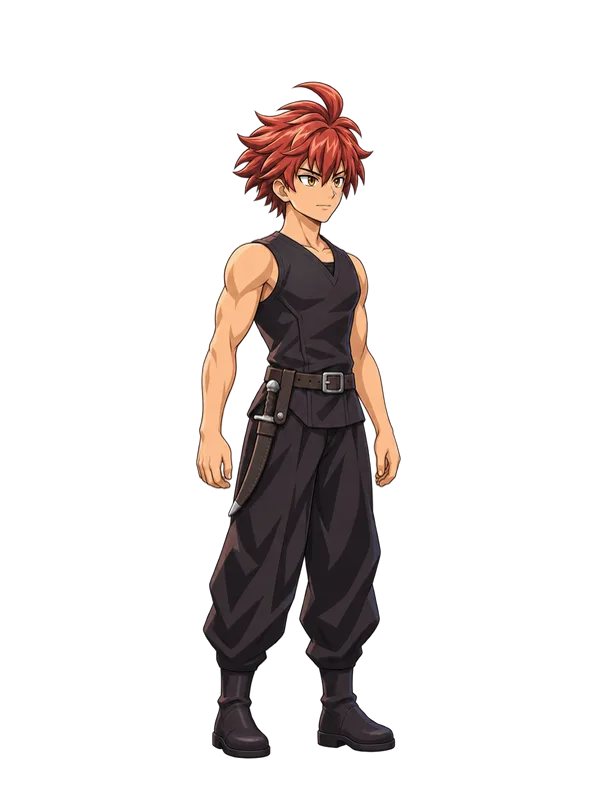
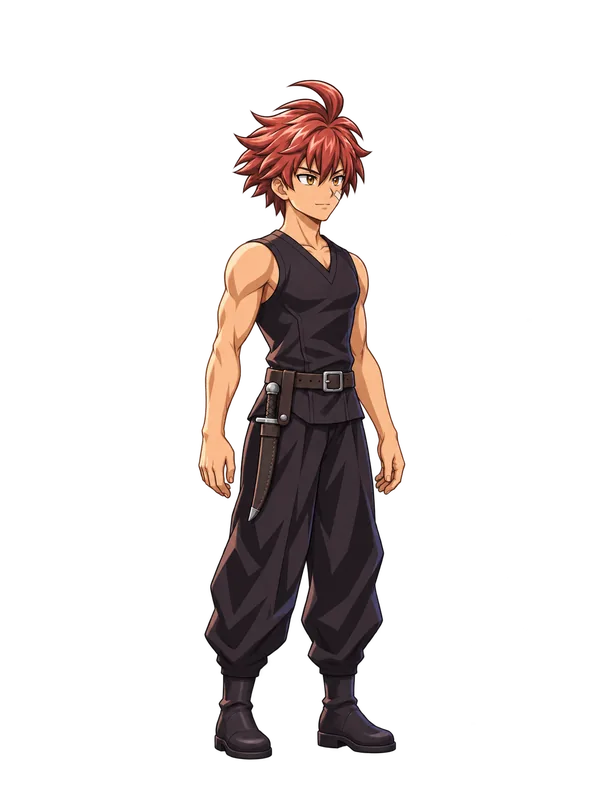
戰利品一鍵換上、特級治療藥水、八職業站姿重畫上線（v10.0）

diff --git a/index.html b/index.html
@@ -78,6 +78,7 @@ h3{font-family:var(--display);font-size:16px;color:var(--navy)}
 .tag{display:inline-block;font-size:11px;padding:0 6px;border-radius:8px;background:var(--navy);color:var(--gold);white-space:nowrap}
 .tag.red{background:var(--hp);color:#fff}.tag.ok{background:var(--exp);color:#fff}.tag.off{background:#b9b2a2;color:#fff}
 .chips{display:flex;flex-wrap:wrap;gap:5px}.chip{font-size:11px;padding:1px 7px;border-radius:9px;background:var(--panel2);border:1px solid var(--line)}
+.dup{display:block;font-size:11px;font-weight:700;color:#1f8a4c}.drop .deq{flex:none;position:relative;z-index:2}.drop .deq.done{background:#cfc6b4;color:#5a5245;border-color:#cfc6b4}
 .drops{display:flex;flex-direction:column;gap:6px;margin:6px 0 8px}.drop{display:flex;align-items:center;gap:8px;padding:8px 10px;border-radius:10px;border:1px solid currentColor;background:rgba(255,255,255,.75);position:relative;overflow:hidden;animation:dropIn .5s cubic-bezier(.2,1.6,.4,1) both}.drop.d3{color:var(--r3);box-shadow:0 0 12px rgba(180,110,255,.45)}.drop.d4{color:var(--r4);box-shadow:0 0 16px rgba(255,200,60,.6)}.drop.shn{color:#1593b3;box-shadow:0 0 14px rgba(60,200,240,.6)}.drop.shn b{color:#1593b3}.drop .grow{display:flex;flex-direction:column}.drop .sub{color:var(--sub);font-size:.85em}.drop::after{content:'';position:absolute;inset:0;background:linear-gradient(110deg,transparent 30%,rgba(255,255,255,.55) 50%,transparent 70%);transform:translateX(-120%);animation:dropShine 1.6s .4s ease-out 2}@keyframes dropIn{from{transform:scale(.6);opacity:0}to{transform:none;opacity:1}}@keyframes dropShine{to{transform:translateX(120%)}}
 .c0{color:var(--r0)}.c1{color:var(--r1)}.c2{color:var(--r2)}.c3{color:var(--r3)}.c4{color:var(--r4)}
 .ico{flex:none;width:38px;height:38px;border-radius:8px;border:2px solid currentColor;background:#fff;font-family:var(--display);font-size:17px;display:grid;place-items:center}
@@ -601,6 +602,7 @@ const DIS=[[1,0],[3,0],[8,0],[20,1],[50,2]];
 const ITEMS={
   pot:{n:'治療藥水',d:'回復 80 HP',price:20,use:{hp:80}},
   pot2:{n:'高級治療藥水',d:'回復 300 HP',price:90,use:{hp:300}},
+  pot3:{n:'特級治療藥水',d:'回復 800 HP',price:240,use:{hp:800}},
   eth:{n:'魔力藥水',d:'回復 40 MP',price:30,use:{mp:40}},
   eth2:{n:'高級魔力藥水',d:'回復 150 MP',price:120,use:{mp:150}},
   stone:{n:'強化石',d:'鐵匠強化裝備的材料',price:120,mat:1},
@@ -1500,7 +1502,9 @@ function makeGear(tier,r,hard){const sl=pick(Object.keys(SLOTS)),alt=Math.random
 /* 閃耀裝備：多一條詞條、最高詞條 ×1.5 */
 let DROPS=[];
 function shine(g){g.sh=1;const ks=g.sub.map(x=>x.k),off=OFFK(),k=Object.keys(SUBS).filter(x=>!ks.includes(x)&&!off.includes(x)).sort(()=>Math.random()-.5)[0],t=GEAR[g.id].t;if(k)g.sub.push({k,v:Math.max(1,Math.round(SUBS[k](t)))});const top=g.sub.reduce((a,b)=>b.v/SUBS[b.k](t)>a.v/SUBS[a.k](t)?b:a);top.v=Math.round(top.v*1.5)}
-function dropFx(){if(!DROPS.length)return '';const h=DROPS.map(g=>`<div class="drop d${g.r}${g.sh?' shn':''}"><span class="ico c${g.r}">${gIco(g.id)}</span><span class="grow"><b class="c${g.r}">${gearName(g)}</b><span class="sub">${g.sh?'閃耀・多一條詞條、最強詞條 ×1.5':g.sp&&g.r<4?`稀有詞綴【${SPEC[g.sp].n}】${specD(g)}`:RAR[g.r].n+'裝備'}</span></span></div>`).join('');const best=Math.max(...DROPS.map(g=>g.r+(g.sh?1:0)));DROPS=[];setTimeout(()=>{try{SFX.holy(0);buzz([30,40,60])}catch(e){}},350);return `<div class="drops">${h}</div>`}
+/* 掉寶卡片：比身上強就標出來，按一下直接換上 */
+function dropUp(g){const b=GEAR[g.id];if(!b||(b.cls&&b.cls!==S.cls)||(b.adv&&b.adv!==S.adv)||S.lv<b.lv||sealed(g))return 0;const cur=gearBy(S.eq[b.slot]);if(!cur)return 100;const a=gearPower(g),c=gearPower(cur);return a>c?Math.max(1,Math.round((a-c)/Math.max(1,c)*100)):0}
+function dropFx(){if(!DROPS.length)return '';const h=DROPS.map(g=>{const up=dropUp(g);return `<div class="drop d${g.r}${g.sh?' shn':''}"><span class="ico c${g.r}">${gIco(g.id)}</span><span class="grow"><b class="c${g.r}">${gearName(g)}</b><span class="sub">${g.sh?'閃耀・多一條詞條、最強詞條 ×1.5':g.sp&&g.r<4?`稀有詞綴【${SPEC[g.sp].n}】${specD(g)}`:RAR[g.r].n+'裝備'}</span>${up?`<span class="dup">▲ 比身上的強 ${up}%</span>`:''}</span>${up?`<button class="btn sm pri deq" data-a="dropEq" data-v="${g.u}">換上</button>`:''}</div>`}).join('');const best=Math.max(...DROPS.map(g=>g.r+(g.sh?1:0)));DROPS=[];setTimeout(()=>{try{SFX.holy(0);buzz([30,40,60])}catch(e){}},350);return `<div class="drops">${h}</div>`}
 const rollGear=(tier,minR,bonus,hard)=>makeGear(tier,rollRar(minR||0,bonus),hard);
 function dismantle(g){const d=DIS[g.r][0]+g.p*2,st=DIS[g.r][1];addItem('dust',d);if(st)addItem('stone',st);for(const gm of g.sock||[])if(gm)addItem(gm,1);S.gear=S.gear.filter(x=>x.u!==g.u);return [d,st]}
 function gainExp(n){
@@ -1766,7 +1770,7 @@ function doPrep(k){if(!RUN||RUN.prep||!PREP[k])return;const a=AREAS[RUN.area],L=
   else if(k==='trap'){if(!S.items.pot){toast('沒有治療藥水');return}addItem('pot',-1)}
   else{S.hp=Math.min(s.HP,S.hp+Math.round(s.HP*.3));S.mp=Math.min(s.MP,S.mp+Math.round(s.MP*.3))}
   RUN.prep=k;toast(`${PREP[k].n}：準備完成`);save();render()}
-function bossGate(a){const m=MOBS[a.boss],L=m.lv+(RUN.nm?10:0),d=L-S.lv,st=stats(),hp=S.hp/st.HP,pot=(S.items.pot||0)+(S.items.pot2||0);
+function bossGate(a){const m=MOBS[a.boss],L=m.lv+(RUN.nm?10:0),d=L-S.lv,st=stats(),hp=S.hp/st.HP,pot=(S.items.pot||0)+(S.items.pot2||0)+(S.items.pot3||0);
   const [c,t]=d>=3?['var(--hp)','勝算很低']:d>=1?['var(--r4)','硬仗']:d>=-2?['var(--exp)','勢均力敵']:['var(--ok,#7fdc8a)','游刃有餘'];
   const warn=[hp<.5&&'HP 不到一半',S.mp<st.MP*.3&&'MP 見底',!pot&&'身上沒有藥水'].filter(Boolean);
   return `<div class="panel" style="border-color:${c}">${art('mob_'+a.boss,m.n,'r11')}<h3 style="color:${c}">★ 首領前哨：${m.n}　Lv ${L}</h3><p class="sub">你 Lv ${S.lv}・HP ${S.hp}/${st.HP}・MP ${S.mp}/${st.MP}・藥水 ${pot}　→　<b style="color:${c}">${t}</b></p>${warn.length?`<p class="sub" style="color:var(--hp)">⚠ ${warn.join('、')}</p>`:''}<p class="sub">${S.cleared[RUN.area]?'打過的首領，掉寶照樣豐厚。':'撤退不會失去戰利品；輸了會掉 10% 金幣。'}</p>${gatePrep(L)}<button class="btn pri big" data-a="bossGo">挑戰首領</button><button class="btn" data-a="retreat">撤退回城（保留戰利品）</button></div>`}
@@ -1931,7 +1935,7 @@ const MV={
       <button class="btn big" data-a="closeM">返回戰鬥</button>`}},
   msg:v=>v,news(){return vNews()},lshop(){return vLShop()},dex(){return vDex()},ach(){return vAch()},craft(){return vCraft()},
   shop(){const tier=Math.min(AREAS.length-1,S.main.ch);
-    const its=['pot','pot2','eth','eth2','stone'].filter(k=>tier>=2||!k.endsWith('2')).map(k=>`<div class="item"><span class="ico c0">${icon('item_'+k,ic(ITEMS[k].use?'potion':'mat'))}</span><span class="grow"><b>${ITEMS[k].n}</b><span class="sub">${ITEMS[k].d}・持有 ${S.items[k]||0}</span></span><button class="btn sm" data-a="buyItem" data-v="${k}" ${S.gold>=ITEMS[k].price?'':'disabled'}>${ITEMS[k].price} G</button></div>`).join('');
+    const its=['pot','pot2','pot3','eth','eth2','stone'].filter(k=>(tier>=2||!k.endsWith('2'))&&(tier>=4||k!=='pot3')).map(k=>`<div class="item"><span class="ico c0">${icon('item_'+k,ic(ITEMS[k].use?'potion':'mat'))}</span><span class="grow"><b>${ITEMS[k].n}</b><span class="sub">${ITEMS[k].d}・持有 ${S.items[k]||0}</span></span><button class="btn sm" data-a="buyItem" data-v="${k}" ${S.gold>=ITEMS[k].price?'':'disabled'}>${ITEMS[k].price} G</button></div>`).join('');
     const gs=[];for(let t=Math.max(0,tier-1);t<=tier;t++)for(const sl in SLOTS)gs.push(sl==='weapon'?`w_${S.cls}_${t}`:`${SLOTP[sl]}_${t}`);
     const gl=gs.reverse().map(id=>{const g=GEAR[id],f={u:0,id,r:0,p:0};return `<div class="item"><span class="ico c0">${gIco(id)}</span><span class="grow"><b>${g.n}</b><span class="sub">Lv.${g.lv}・${gearDesc(f)}</span></span><button class="btn sm" data-a="buyGear" data-v="${id}" ${S.gold>=g.price?'':'disabled'}>${g.price} G</button></div>`}).join('');
     return{t:'道具商店',b:npcSay('npc_miko','蜜可','歡迎光臨！主線每推進一章，我就會進新貨喔。')+`<h3>消耗品</h3><div class="list">${its}</div><h3>裝備</h3><p class="sub">商店只賣普通裝備。附加詞條、套裝與傳說詞綴要靠冒險掉落或召喚。</p><div class="list">${gl}</div>`}},
@@ -2461,6 +2465,7 @@ function loadCode(code){try{const [v,b,c]=code.trim().split('.');if(v!=='AO1')th
 
 /* ============ 公告與限時活動 ============ */
 const NEWS=[
+  {v:'10.1',d:'2026-11-21',t:'掉寶一鍵換上＋特級藥水',b:'①打贏後的戰利品卡片，若比身上那件強，會標出強多少，按「換上」直接裝備，不用再翻背包。②第五章起道具店賣「特級治療藥水」（回復 800 HP，240 G），自動戰鬥會依缺血量挑大瓶或小瓶喝。③騎士、遊俠、祭司、大魔導士、咒術師、神射手、刺客、主教的站姿立繪重畫上線。'},
   {v:'10.0',d:'2026-11-21',t:'全自動強化',b:'全自動回城時會自動整備：簽到、領每日、占卜、分配屬性點與技能點、換上更好的裝備、補足藥水；練到下一區等級會自動前往新地區。血量偏低時岔路會優先走營地、避開埋伏；金幣不夠休息但血量還夠時不再停止。'},
   {v:'9.9',d:'2026-11-21',t:'電腦版版面',b:'用電腦寬螢幕開啟時，遊戲畫面自動放大置中，左側顯示角色、裝備與今日任務，右側顯示排行榜、系統訊息與更新公告。'},
   {v:'9.8',d:'2026-11-20',t:'裝置轉移',b:'設定新增「裝置轉移」：舊裝置按「產生轉移碼」得到 6 碼，在新裝置輸入就能搬走進度，24 小時內有效、用一次就失效。原本的存檔碼也還能用。'},
@@ -2742,7 +2747,7 @@ function foeTurn(){if(!B)return;if(B.treasure&&B.turn>=3&&B.hp>0){B=null;RUN.vie
 function myPd(k,s){s=s||stats();const x=k&&SK[k],st=x?x.dmg.s:'ATK',v=st==='BOTH'?s.ATK+s.MAG:s[st]||s.ATK,df=st==='MAG'?(B.mres??B.def):B.def;
   return clsDm()*v*(x?x.dmg.p*(x.dmg.h||1)*(1+.15*((S.skl[k]||1)-1)):S.cls==='swordsman'?1.15:1)*100/(100+df)*(1+buffSum('atk'))*(B.opening?1.5:1)*(x&&x.dmg.rend?Math.max(1,elMul(B.id,SKEL2[k]||'phys')):elMul(B.id,x?SKEL2[k]||'phys':'phys'))*.85}
 function autoAct(){if(!B||B.busy||!B.auto)return;if(MODAL&&MODAL.k==='foe')return;const s=stats(),sk=mySkills().filter(k=>S.mp>=mpCost(k)&&!(SK[k].ult&&B.ultUsed));
-  if(S.hp<s.HP*.4){const h=sk.find(k=>SK[k].heal);if(h)return pAct('skill',h);const p=['pot2','pot'].find(k=>S.items[k]);if(p)return pAct('item',p)}
+  if(S.hp<s.HP*.4){const h=sk.find(k=>SK[k].heal);if(h)return pAct('skill',h);const lk=s.HP-S.hp,p=(lk>=600?['pot3','pot2','pot']:lk>=200?['pot2','pot3','pot']:['pot','pot2','pot3']).find(k=>S.items[k]);if(p)return pAct('item',p)}
   const C=B.cls,est=k=>{const x=SK[k];return elMul(B.id,SKEL2[k]||'phys')*x.dmg.p*(x.dmg.h||1)*(1+(x.fin||0)*C.brk+(x.det||0)*C.marks.length+(x.aim||0)*C.focus+(x.faithAmp?Math.min(1,C.faith/100):0)+(x.faithSpend?C.faith/100*1.2:0))+dotV(x)};
   const dotV=x=>{if(!x.foe)return 0;const base=Math.max(1,x.dmg.s==='MAG'?s.MAG:s.ATK);let v=0;
     for(const [k,f] of [['poison',.05],['burn',.04]])if(x.foe[k]&&!(B.st[k]>0))v+=Math.min(B.hp*.6,B.max*f*(B.kind==='boss'?.5:1)*x.foe[k])/base;
@@ -3447,6 +3452,7 @@ const ACT={
   useItem(k){if(RUN&&B)return;const it=ITEMS[k],s=stats();if(it.use.hp&&S.hp>=s.HP||it.use.mp&&S.mp>=s.MP){toast('已經是滿的');return}
     addItem(k,-1);if(it.use.hp)S.hp=Math.min(s.HP,S.hp+it.use.hp);if(it.use.mp)S.mp=Math.min(s.MP,S.mp+it.use.mp);save();render()},
   sellItem(k){addItem(k,-1);S.gold+=sellPrice(k);save();render()},
+  dropEq(u,el){const g=gearBy(+u);if(!g||!dropUp(g))return;S.eq[GEAR[g.id].slot]=g.u;const s=stats();S.hp=Math.min(S.hp,s.HP);S.mp=Math.min(S.mp,s.MP);toast(`裝備了 ${gearName(g)}`);if(RUN&&RUN.view){const fix=x=>x&&x.replace(new RegExp(`<span class="dup">[^<]*</span></span><button[^>]*data-v="${g.u}">換上</button>`),'</span><button class="btn sm deq done" disabled>已換上</button>');RUN.view.drop=fix(RUN.view.drop);RUN.view.boxR=fix(RUN.view.boxR)}save();if(el){el.textContent='已換上';el.disabled=true;el.classList.add('done');const d=el.closest('.drop');if(d){const x=d.querySelector('.dup');if(x)x.remove()}}},
   equip(u){const g=gearBy(+u);S.eq[GEAR[g.id].slot]=g.u;toast(`裝備了 ${gearName(g)}`);save();closeM();render()},
   unequip(sl){S.eq[sl]=null;save();closeM();render()},
   sellAll(v){const mx=+v||1,eqd=Object.values(S.eq),L=S.gear.filter(g=>g.r<=mx&&!g.lock&&!eqd.includes(g.u)&&!g.sh&&!g.sp);if(!L.length){toast('沒有可販售的裝備');return}const sum=L.reduce((a,g)=>a+gearSell(g),0);if(!confirm(`販售 ${L.length} 件${mx>=2?'稀有以下':'普通、精良'}裝備，共 ${sum} G？（閃耀與稀有詞綴裝備會保留）`))return;const ids=new Set(L.map(g=>g.u));S.gear=S.gear.filter(g=>!ids.has(g.u));S.gold+=sum;toast(`販售 ${L.length} 件，獲得 ${sum} G`);save();render()},
@@ -3537,7 +3543,7 @@ function faTick(){faDraw();if(!FA||!S||FA.busy)return;if(FA.hold&&Date.now()-FA.
   if(MODAL){if(B&&MODAL.k==='foe')return;if(B&&MODAL.k!=='msg'){closeM();return}faClick('#modal .sheet-b [data-a="closeM"].pri')||faClick('#modal .x');return}
   if(B){if(!B.auto){B.auto=AUTO=true;render();setTimeout(autoAct,200)}return}
   if(RUN){if(TAB!=='adv'){TAB='adv';render();return}
-    if(RUN.view&&RUN.view.type==='gate'){const L=MOBS[AREAS[RUN.area].boss].lv+(RUN.nm?10:0),st=stats();if((!S.cleared[RUN.area]&&S.lv<L-1)||(S.hp<st.HP*.35&&!S.items.pot&&!S.items.pot2)){toast('全自動：首領太強，先撤退練功');faClick('#main [data-a="retreat"]')}else{if(!RUN.prep){if(S.hp<st.HP*.6)doPrep('camp');else if(S.gold>=prepCost(L)*3)doPrep('scout');else if((S.items.pot||0)>2)doPrep('trap')}faClick('#main [data-a="bossGo"]')}return}
+    if(RUN.view&&RUN.view.type==='gate'){const L=MOBS[AREAS[RUN.area].boss].lv+(RUN.nm?10:0),st=stats();if((!S.cleared[RUN.area]&&S.lv<L-1)||(S.hp<st.HP*.35&&!S.items.pot&&!S.items.pot2&&!S.items.pot3)){toast('全自動：首領太強，先撤退練功');faClick('#main [data-a="retreat"]')}else{if(!RUN.prep){if(S.hp<st.HP*.6)doPrep('camp');else if(S.gold>=prepCost(L)*3)doPrep('scout');else if((S.items.pot||0)>2)doPrep('trap')}faClick('#main [data-a="bossGo"]')}return}
     faClick('#main [data-a="bossBox"]',1)||(document.querySelector('#main [data-a="pickFork"]')&&(faSmartFork()||faDice('#main [data-a="pickFork"]','岔路')))||(document.querySelector('#main [data-a="evPick"]')&&faDice('#main [data-a="evPick"]','事件抉擇'))||faClick('#main [data-a="evFight"]')||faClick('#main [data-a="bless"]',1)||faClick('#main [data-a="runNext"]')||faClick('#main [data-a="towerNext"]')||faClick('#main [data-a="finish"]');return}
   /* 回城：休息後重新出發同一地區 */
   if(FA.tower){faStop('高塔挑戰結束');return}
@@ -3555,7 +3561,7 @@ function faTown(){const msgs=[];try{checkDaily();
     for(const g of S.gear){const b=GEAR[g.id];if(!b||b.slot!==sl||g===cur)continue;if((b.cls&&b.cls!==S.cls)||(b.adv&&b.adv!==S.adv)||S.lv<b.lv||sealed(g))continue;const p=gearPower(g);if(p>bp*1.02){bp=p;best=g}}
     if(best&&best!==cur){S.eq[sl]=best.u;ch++}}if(ch)msgs.push(`換上 ${ch} 件裝備`);
   const tier=TLV.reduce((a,v,i)=>v<=S.lv?i:a,0),hp=tier>=2?'pot2':'pot',mp=tier>=2?'eth2':'eth',keep=S.lv*4*3;let bought=0;
-  for(const [k,want] of [[hp,6],[mp,3]])while((S.items[k]||0)<want&&ITEMS[k]&&S.gold-ITEMS[k].price>=keep){S.gold-=ITEMS[k].price;addItem(k,1);bought++}
+  for(const [k,want] of [[hp,6],[mp,3],...(S.main.ch>=4?[['pot3',2]]:[])])while((S.items[k]||0)<want&&ITEMS[k]&&S.gold-ITEMS[k].price>=keep){S.gold-=ITEMS[k].price;addItem(k,1);bought++}
   if(bought)msgs.push(`補了 ${bought} 瓶藥`);
   const top=AREAS.reduce((a,A,i)=>S.main.ch>=i&&A.base<=S.lv?i:a,0);if(!FA.nm&&!FA.tower&&top>FA.area&&S.cleared[FA.area]){FA.area=top;msgs.push('前往'+AREAS[top].n)}
   save()}catch(e){}if(msgs.length)toast('全自動整備：'+msgs.join('、'))}

diff --git a/sw.js b/sw.js
@@ -1,4 +1,4 @@
-const C='ao-art-v27';
+const C='ao-art-v28';
 self.addEventListener('install',e=>self.skipWaiting());
 self.addEventListener('activate',e=>e.waitUntil(caches.keys().then(ks=>Promise.all(ks.filter(k=>k.startsWith('ao-art')&&k!==C).map(k=>caches.delete(k)))).then(()=>self.clients.claim())));
 const get=(req,n)=>fetch(req).catch(err=>n>0?new Promise(r=>setTimeout(r,800)).then(()=>get(req,n-1)):Promise.reject(err));

diff --git a/DEV_NOTES.md b/DEV_NOTES.md
@@ -147,8 +147,13 @@
 - 全自動不會分配屬性點／技能點／換裝，測試時要自己補。
 - 技能：檢查 53 招的 MP 與傷害是否有明顯沒人用的招。
 - banner_fest1 還是舊畫風。
+- 道具圖示 item_pot3（特級治療藥水，進 atlas）待畫，目前用藥瓶線條圖示。
+- Lv12 法師 MAG（121）略低於神官（128）：同裝測試，可觀察是否要補法師。
 
 ## 已完成（自動排程）
+- v10.0：戰利品卡片比較（`dropUp`：同部位 gearPower 比身上高就標「▲ 比身上的強 X%」＋「換上」按鈕 `ACT.dropEq`，換上後會改寫 `RUN.view.drop`／`boxR` 成「已換上」）。新增 `pot3` 特級治療藥水（800 HP、240 G，`S.main.ch>=4` 道具店上架）；`autoAct` 依缺血量挑藥（≥600 pot3、≥200 pot2、否則 pot）。玩家意見 0 則。
+- 美術：總指揮整張重畫的站姿／待機 22 張（騎士、遊俠、祭司、大魔導士、咒術師、神射手、刺客、主教）審過上線，手部自然、武器端正，sw.js v28。
+- 測試（v10.0，換裝帶藥，Lv1／6／12／22 共 16 場全自動）：0 pageerror、0 缺圖。Lv12 主攻：劍士 ATK 105、遊俠 129、法師 MAG 121、神官 128（法師略低於神官，觀察）。Lv22：大魔導 MAG 272、咒術 297、主教 242、聖殿 217；狂戰 ATK 189、騎士 170、刺客 165、神射 188。Lv12／22 一般戰最低 HP 多在 56～95%，Lv1 劍士最低 7%（有喝藥）。
 - v9.7：五張地圖各加一個事件（p_rain 突來的雷雨、f_fox 捕獸夾上的狐狸、m_rail 失控的礦車、s_dove 凍僵的信鴿、c_altar 黑霧祭壇）。新增事件選項欄位 `need:[道具,數量]`（`evLack`／`evCostTag`，不夠就 disabled、選了才扣），免檢定付錢選項顯示價格且錢不夠不能選（`evGoldCost`，修正 0 元也能買裝備）。修 `applyOut` 扣 MP 變負數與顯示「MP +-x」。玩家意見 0 則。
 - 美術：總指揮整張重畫的劍士、法師待機＋站姿男女 8 張審過上線（手部自然、握杖正確），sw.js v27。遊俠男女正在 `_draft` 繪製中，下輪審。
 - 測試（v9.7，換裝帶藥）：Lv1／6／12／18／22 共 16 場全自動 0 pageerror、0 缺圖。Lv12 主攻：劍士 ATK 105、遊俠 100、法師 MAG 146、神官 118；精英戰最低 HP 41～79%，首領（神官 Lv18）最低 26%。Lv22 大魔導 MAG 418、咒術 321、主教 256、聖殿 253；狂戰 ATK 206、刺客 227、神射 225、騎士 191。
